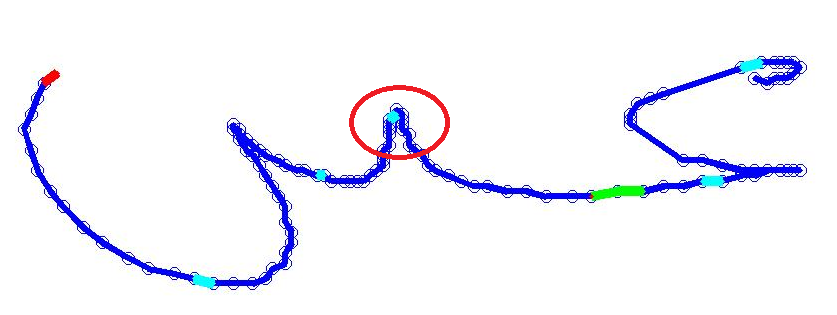
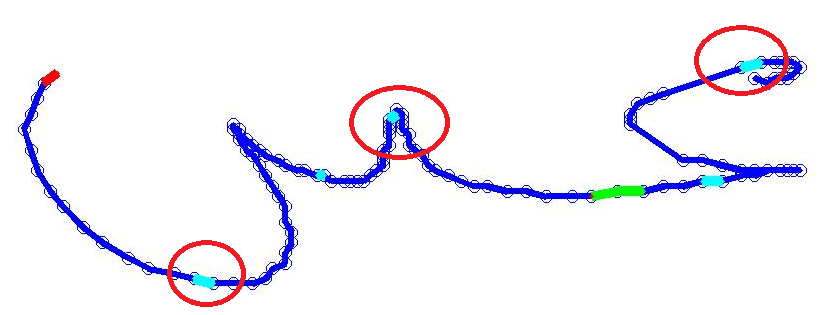
Segmentation paper Latex. Substroke scoring
git-svn-id: https://arabic-icr.googlecode.com/svn/trunk@214 23b4f04e-482a-c3a5-d353-cb0f12a588d0

diff --git a/Thesis/Segmentation Paper LaTeX/Online Segmentation Paper.tex b/Thesis/Segmentation Paper LaTeX/Online Segmentation Paper.tex
@@ -6,7 +6,7 @@
 %\usepackage{fixltx2e}
 %\usepackage{stfloats}
 %\usepackage{url}
-%\usepackage[cmex10]{amsmath}
+\usepackage[cmex10]{amsmath}
 %\usepackage{array}
 %\usepackage{mdwmath}
 %\usepackage{mdwtab}
@@ -40,7 +40,7 @@
 
 \IEEEcompsoctitleabstractindextext{
 \begin{abstract}
-character segmentation has an integral role in many Optical Character Recognition (OCR) systems due to the fact that correctly segmented characters are likely to be recognized correctly. However, Correct and efficient segmentation of Arabic text into characters is considered to be an essential problem. The cursive and unconstrained nature of the Arabic script in both printed and handwritten forms anneals the segmentation task. The Arabic script is composed of strokes which represent a single letter, multiple connected letters or diacritics. This paper proposes a novel on-line strokes-level recognition-based segmentation technique of Arabic script. The uniqueness and the main contribution of our approach is that the most time consuming procedures are performed while the stroke is being scribed. The system consists of three stages. The first stage, which requires the most calculation effort, is performed whilst the stroke is being written and involves three main parts: 1. Preprocessing of the written stroke. 2. Over-segmentation of the written stroke using on topological and directional local features. 3. Recognition-based scoring of adjacent combinations of sub-strokes that induced by the proposed segmentation points. The second stage contains filtering of the topologically invalid segmentation points. The last stage involves several segmentation points selections algorithm which determines the best subset of segmentation points. The system has been designed and tested using the ADAB Database. Promising results were obtained without using context help.
+character segmentation has an integral role in many Optical Character Recognition (OCR) systems due to the fact that correctly segmented characters are likely to be recognized correctly. However, Correct and efficient segmentation of Arabic text into characters is considered to be an essential problem. The cursive and unconstrained nature of the Arabic script in both printed and handwritten forms anneals the segmentation task. The Arabic script is composed of strokes which represent a single letter, multiple connected letters or diacritics. This paper proposes a novel on-line strokes-level recognition-based segmentation technique of Arabic script. The advantage of our approach is that the most time consuming procedures are performed while the stroke is being scribed. The system consists of three stages. The first stage, which requires the most calculation effort, is performed whilst the stroke is being written and involves three main parts: 1. Preprocessing of the written stroke. 2. Over-segmentation of the written stroke using on topological and directional local features. 3. Recognition-based scoring of adjacent combinations of sub-strokes that induced by the proposed segmentation points. The second stage contains filtering of the topologically invalid segmentation points. The last stage involves several segmentation points selections algorithm which determines the best subset of segmentation points. The system has been designed and tested using the ADAB Database. Promising results were obtained without using context help.
 \end{abstract}
 \begin{IEEEkeywords}
 Arabic Handwriting Recognition, Arabic Script Segmentation, Arabic Strokes Segmentation, On-line Text Recognition
@@ -52,34 +52,23 @@ Arabic Handwriting Recognition, Arabic Script Segmentation, Arabic Strokes Segme
 
 \section{Introduction}
 \date
-\IEEEPARstart{H}{andwriting} remains the most used mean of communication and recording of information in the daily life. Therefore, a growing interest in the on-line character recognition field has taken place in the recent years.
-Handwriting recognition can be categorized into two main fields: off-line and on-line. In the off-line script recognition, a digital image containing text is fed to the computers and the system attempt to converts the spatial representation of the letters into digital symbols \cite{al2011online}. Nevertheless, on-line handwriting recognition refers to the situation where the recognition is performed concurrently to the writing process. The main existing approaches for script recognition are the holistic approach \cite{biadsy2011segmentation} and the analytic approach \cite{abdulla2008off, sari2002off, Dinges2011, elanwar2012unconstrained}. The holistic approach considers the global properties of the written text while the analytic approach involves segmentation and classification of each part of the text.  In the holistic approach, the recognition system needs to be trained over all words in the dictionary, while it is possible for small vocabulary of words; this is not feasible for large vocabularies (20,000 words or more). Since each word is constructed from a subset of the character alphabet, it is much more efficient to classify words using the analytic approach. \cite{elanwar2012unconstrained} \\
+\IEEEPARstart{H}{andwriting} remains the most used mean of communication and recording of information in the daily life. Therefore, a growing interest in the on-line character recognition field has taken place in the recent years. Handwriting recognition can be categorized into two main fields: off-line and on-line. In the off-line script recognition, a digital image containing text is fed to the computers and the system attempts to convert the spatial representation of the letters into digital symbols \cite{al2011online}. On the contrary, on-line handwriting recognition refers to the situation where the recognition is performed concurrently to the writing process. Approaches for script recognition are usually classified into two types: 1.The holistic approach \cite{biadsy2011segmentation} and 2.the analytic approach \cite{abdulla2008off, sari2002off, Dinges2011, elanwar2012unconstrained}. The holistic approach considers the global properties of the written text while the analytic approach involves segmentation and classification of each part of the text.  In the holistic approach, the recognition system needs to be trained over all words in the dictionary, while it is possible for small vocabulary of words; this is not feasible for large vocabularies (20,000 words or more). Since each word is constructed from a subset of the character alphabet, it is much more efficient to classify words using the analytic approach \cite{elanwar2012unconstrained}.\\
 
-The main motivation behind researching the field of Arabic handwriting segmentation its widespread. Although no reliable resource could be found which specifically mention the exact number of people whom read and write the Arabic system, it is known that the the Arabic language is the forth most spoken language by natives after Mandarin, Spanish and English. The Arabic language contains many different dialects used for nearly all everyday speaking situations however the formal standardized language, found mostly in writing or in prepared speech, is common \emph{[add citation from Wikipedia]}.  Approximately 25 languages have adopted the Arabic writing system with some changes. Thus the ability to segment and recognize Arabic script would have a widespread benefits. Nevertheless, the Arabic script recognition is at early stage in relation to the script recognition of Latin, Chinese and Kanji which has been a focus of study in the last decade and achieved an impressive recognition rates. The reason for this is mainly the peculiarity nature of the Arabic script, lack of funds and other utilities such as text database, dictionaries, etc. \cite{zeki2011segmentation}
-The Arabic language is written right to left in a cursive manner in both handwritten and printed forms. Most Arabic letters has 4 main body shapes: Isolated, Medial, Initial and Final, while other letters have 2 main body shapes: Isolated and Final. An occurrence of two shapes letters inside a word will lead to a split of the body into two or more parts, called Word-Parts (WP). Within the WP, the letters are connected in both handwritten and printed. Different letters may share the same body and only differ by additional strokes and dots called diacritics as seen in figure \ref{fig:same_main_body_letters}. In many cases Arabic word parts, which are connected when printed, are written in multiple strokes in handwritten form.\\  
+The main motivation behind researching the field of Arabic handwriting segmentation its widespread. Although no reliable resource could be found which the exact number of people whom read and write the Arabic text, it is known that the the Arabic language is the forth most spoken language by natives after Mandarin, Spanish and English. The Arabic language contains many different dialects used for nearly all everyday speaking situations however the formal standardized language, found mostly in writing or in prepared speech, is common \emph{[add citation from Wikipedia]}.  Approximately 25 languages have adopted the Arabic writing system with some changes. Thus the ability to segment and recognize Arabic script would have a significant academic and economic impact. Nevertheless, the Arabic script recognition is at early stage in relation to the script recognition of Latin, Chinese and Kanji which has been a focus of study in the last decade and achieved an impressive recognition rates. Complexities such as cursiveness, context sensitive shapes and overlapping of the Arabic script causes the OCR of the Arabic languages much more complicated than other languages such as English and Chinese \cite{razzak2010locally}. 
+Character Recognition of the Arabic script is more complicated than other languages such as English and Chinese due to complexities such as cursiveness, context sensitive shapes and overlapping. 
 
-Segmentation of the word into entities is a crucial part of the text recognition process in the segmentation based approaches. The segmentation do not necessarily correspond to exactly one character however it could be broken into components called graphemes, which are a combination of two or three letters, or a part of a letter. Correct segmentation of a word into letter is likely to result in a correct recognition. The other way around is also valid when it comes to recognition-based segmentation techniques, i.e. a firm recognition system improves the segmentation precision. Several segmentation approaches have been proposed in the literature for Arabic OCR. Still, correct and efficient segmentation of Arabic text is still considered a challenging and a fundamental problem even for off-line printed text. A common approach that is followed by many researchers is over-segmentation of the text and validating each such candidate segmentation point by extracting feature vectors representing the segmented parts to some classifier or rules based engine \cite{daifallah2009recognition}.\\
+The reason for this is mainly the peculiarity nature of the Arabic script, lack of funds and other utilities such as text database, dictionaries, etc.\cite{zeki2011segmentation}.\\
 
-\emph{[discuss the features of a horizontal point, 1. horizontal, 2. right to left, on the baseline]}\\
+The Arabic language is written right to left in a cursive manner in both handwritten and printed forms. Most Arabic letters has four main body shapes: Isolated, Medial, Initial and Final, while other letters have two main body shapes: Isolated and Final. An occurrence of two shapes letters inside a word will lead to a split of the body into two or more parts, called Word-Parts (WPs). Within the WP, the letters are connected in both handwritten and printed. Different letters may share the same body and only differ by additional strokes and dots named diacritics. For example the letters \RL{.h}  (Ha),\RL{j} (Jim),\RL{x} (Kha), and also the letters \RL{r} (Ra),\RL{z} (Zayn) and more.
+In many cases Arabic WPs, which are connected when printed, are written in multiple strokes in handwritten form as can be seen in figure \ref{fig:kmbot}. \\
 
+\emph{[consider adding a table of the similar body letters.]}\\
+
+Correct segmentation of a word into letter is likely to result in a correct recognition. The other way around is also valid when it comes to recognition-based segmentation techniques, i.e. a firm recognition system improves the segmentation precision. Several segmentation approaches have been proposed in the literature for Arabic OCR. Yet, correct and efficient segmentation of Arabic text is an unmet need and considered to be a challenging and a fundamental problem even for off-line printed text. A common approach that is followed by many researchers is over-segmentation of the text and validating each such candidate segmentation point by extracting feature vectors representing the segmented parts to some classifier or rules based engine \cite{daifallah2009recognition}.\\
 
 \emph{[talk about over and under segmentation in the general case, not specifically to the Arabic]}\\
 
-\begin{figure}
-\centering
-        \subfloat[]{
-            \label{fig:letters_same_body_1}
-            \includegraphics[width=0.2\textwidth]{./figures/letters_same_body_1}
-        }
-        \subfloat[]{
-           \label{fig:letters_same_body_2}
-           \includegraphics[width=0.2\textwidth]{./figures/letters_same_body_2}
-        }        
-    \caption{Letters groups sharing the same main body.}
-   \label{fig:same_main_body_letters}
-\end{figure}
-
-Methods used by segmentation-based approaches can be mainly classified into two: Dissection and Recognition-Based Segmentation. Dissection techniques learn the characteristic of the segmentation point and attempts to find appropriate candidate points. For instance, local minima in the upper or lower contour is commonly used for segmenting English cursive script.\emph{[TODO:add citation]}. Other widely used feature that characterizes a segmentation point is the low slope of its local environment. Several segmentation techniques divides the word into graphemes rather than into letters and the relationship between graphemes and letters is applied in a later phase \emph{[TODO:add citation]}. The recognition-based techniques operation is quite different. The method include using a moving window with a predefined width which breaks the word into many overlapping pieces without regard to its content and the attempts to classify those sub-components to find interesting points of interest or trajectories. An iterative or parallel scanning of the words followed by a recognition method is used to search for "satisfactory" classification scoring for joint sub-components usually by generating a lattice of all or many possible combinations. The final decision is determined by the best path through the lattice. While avoiding using complex dissection techniques, such techniques relies heavily on the classifier accuracy \cite{casey1996survey}. A similar methodology is used in this study.\\
+Methods used by segmentation-based approaches can be mainly classified into two: Dissection and Recognition-Based Segmentation. Dissection techniques learn the characteristic of the segmentation point and attempt to find appropriate candidate points. For instance, local minima in the upper or lower contour is commonly used for segmenting English cursive script.\emph{[TODO:add citation]}. Other widely used feature that characterizes a segmentation point is the low slope of its local environment. The dissection of words into segments do not necessarily correspond to exactly one character per segment, however it could segment the words into components called graphemes, which are a combination of two or three letters, or a part of a letter. The relationship between graphemes and letters is applied in a later phase \emph{[TODO:add citation]}. The recognition-based techniques operate quite differently. The method includes using a moving window with a predefined width which breaks the word into many overlapping pieces without regard to its content and the attempts to classify those sub-components to find points of interest or trajectories. An iterative or parallel scanning of the words followed by a recognition method is used to search for "satisfactory" classification scoring for joint sub-components usually by generating a lattice of all or many possible combinations. The final decision is determined by the best path through the lattice. While avoiding using complex dissection methods, such techniques rely heavily on the classifier accuracy \cite{casey1996survey}. \\
 
 In this paper we propose a novel approach which performs segmentation and recognition in the strokes level. We combine both holistic and analytic techniques for recognizing open dictionary Arabic on-line script. In section \ref{sec:related_word} we mention related studies done in the field of on-line Arabic recognition. The proposed approach is described in details in section \ref{sec:approach}. Results are shown in the section \ref{sec:results}. We present the future work we plan in section \ref{sec:future_work}.
 
@@ -115,8 +104,11 @@ The motivation behind this method is based on the intuition that the most basic 
 The proposed technique describes a general concept of ongoing strokes segmentation. The decoupling between the different components and sub-components in the system enables different alternatives techniques to be integrated easily such as dissection techniques and graphemes or letters classification. A high level visual description of the system can be seen in figure \ref{fig:system_flow}.\\
 
 Below, a digest of the three main stages of our approach: \\
+
 \textbf{Stage 1.} This stage is activated on every reception of a new point by from the tablet. The whole trajectory received since the last "pen down" event is preprocessed to remove noises and imperfections. The horizontal handler that joint a pair of connected Arabic letters is mostly horizontal, directed right to left and located near the baseline, thus our goal is identify this Horizontal segments and pinpoint a segmentation point, preferably, as much as close the the middle of the handler. Thus, the preprocessed stroke is investigated in an attempt to determine whether the newly acquired point represents the beginning of a new horizontal fragment or end of an horizontal fragment (HF) by calculating the slope of the local point area. If a the last point ends a HF, the medial point of the HF is nominated as a Candidate Point (CP). For each new CP is a row and a column is added to the Subsequence Scoring Matrix which contains the classification scoring of sub-strokes spanning from candidate point that spans between any two candidate points. The scoring is calculated using a letter classification system. Once the corresponding "Pen up" event occur, the system moves for the next stage.\\ 
+
 \textbf{Stage 2.} The CP's are investigated and both invalid and redundant candidate points are filtered out. Then, a scoring correction process is invoked to adjust very high scoring for least probable candidate points using some heuristics. An example for invalid candidate point can be a point which do not reside on a HF or on a contour of a loop. Redundant candidate point happens when more than a single candidate point were nominated on the same HF  that represent joint trajectory between two connected letters.\\
+
 \textbf{Stage 3.} At this point the scoring matrix is ready and all the bad candidate points are eliminated. Next, a collection of algorithms is employed to select the final set of segmentation points.
 
 Detailed explanation on each stage is provided in the subsections below.
@@ -140,7 +132,7 @@ Our preprocessing phase include three steps in the following order: normalizatio
 
 \textbf{Normalization.} Size normalization is done to achieve a uniform size of the bounding box surrounding the pattern. This is done to enable the classifier to recognize the sequence pattern even when the stroke is written in different sizes. Shape similarity algorithms tend to be sensitive for nonuniform shapes size, thus this procedure is important and can be found in many approaches in the literature. The bounding box of the sequence after this procedure is $[0,1]\times[0,1]$. We include in this step also translation of the sequence's center of gravity to the origin point $[0,0]$.\\
 
-\textbf{Simplification.} The input obtained by the digitizer may contain a large amount of noise. The noise is mainly duplication of points. In this process redundant points are filtered out and a similar sequence with fewer points is obtained. Douglas-Peucker algorithm is used and the maximum distance parameter used by the algorithm is set to be \emph{[]}. The resulted curve is a skeletonized angular sequence. \\
+\textbf{Simplification.} The input obtained by the digitizer may contain a large amount of noise. The noise is mainly duplication of points. In this process redundant points are filtered out and a similar sequence with fewer points is obtained. Douglas-Peucker algorithm is used and the maximum distance parameter used by the algorithm is set to be \emph{[]}. The resulted curve is a skeletonized angular sequence. \emph{[talk about the epsilon value]}\\
 
 \textbf{Re-sampling.} As a result of the simplification process the points are distributed uniformly along the stroke trajectory. Naturally, there are less point in relatively straight areas and a higher amount of points in the curved areas of the stroke. The process of re-sampling produces equidistant smoothed data sequence. The Re-sampling is performed using splines interpolation, the target number of points for a sample pattern which is classified to a letter is set to 40. This number found empirically.
 
@@ -149,15 +141,15 @@ Our preprocessing phase include three steps in the following order: normalizatio
 \begin{figure}
 	\centering
         \subfloat[]{
-            \label{fig:letters_same_body_1}
+            \label{fig:letter_before_preprocessing}
             \includegraphics[width=0.2\textwidth]{./figures/letter_before_preprocessing}
         }
         \subfloat[]{
-           \label{fig:letters_same_body_2}
+           \label{fig:letter_after_preprocessing}
            \includegraphics[width=0.2\textwidth]{./figures/letter_after_preprocessing}
         }        
     \caption{The letter \RL{d} before (a) and after (b) preprocessing}
-   \label{fig:same_main_body_letters}
+   \label{fig:D_before_after_preprocessing}
 \end{figure}
 
 \subsubsection{Horizontal Fragment identification}
@@ -167,12 +159,11 @@ The goal of this process is to identify HF's in the written text. Once an HF is 
 \item low slope
 \item directed right to left 
 \end{enumerate}
-The method described below tries to identify the largest possible HF and disregard small horizontal regions that are usually caused by the imperfection of the digitizer. 
-The horizontal fragment is performed by spotting the start and the end point of the horizontal fragment. For every newly obtained point, the slope is calculated.\\
+The method described below tries to identify the largest possible HF and disregard small horizontal regions that are usually caused by the imperfection of the digitizer. The horizontal fragment is performed by spotting the start and the end point of the horizontal fragment. For every newly obtained point, the slope is calculated.\\
 
 The process is ongoing thus to get the largest possible HF, we mark both the beginning and the end of the horizontal segment, these two points were given the names "start horizontal Fragment" (SHF) and "end horizontal Fragment" (EHF). 
 A point $p_{i}$ is named a "horizontal point" if the slope of the line $\overline{p_{i-1}p_{i}}$ if $\frac{\Delta x}{\Delta y}\leq0.6$ i.e the angle between the HP and the positive x-axis $\phi \leq \frac{\pi}{6}$ . This parameter was tunes empirically. The same exact value for this parameter was found independently in \cite{daifallah2009recognition} which strengthen our confidence in the finding.\\
-To reliably calculate the slope value, despite the noisy data obtained by the tablet, some preprocessing steps need to be performed. However a whole process of normalization, simplification and re-sampling mentioned in the previous may be costly, and since the this preprocessing need to be performed on almost every newly obtained point, it would be impractical and can't be performed on-line while the stroke is being written.\\
+To reliably calculate the slope value, despite the noisy data obtained by the tablet, some preprocessing steps need to be performed. However a whole process of normalization, simplification and re-sampling mentioned in the previous may be costly. Since this preprocessing need to be performed on almost every newly obtained point, it would be impractical and can't be performed on-line while the stroke is being written.\\
 
 The preprocessing include only down-sampling of the trajectory, to the half of the sample points of the original trajectory.
 Once a low slope point is recognized, the algorithm sets this point as a HF starting point. Every next low slope point is marked as "Last Seem Horizontal point" Until a high slope point is obtained. The point lastly marked as "Last Seen Horizontal point" is set to be an "Ending Horizontal point".\\
@@ -180,7 +171,7 @@ Once a low slope point is recognized, the algorithm sets this point as a HF star
 Ideally the whole process should be initiated on every new point received by the digitizer, however, it is unnecessary since no much information is obtained by each new point. Alternatively, the process is invoked on every k point, when k is set to 5 in our system. A horizontal fragment must contain two points at least.\\
 
 The nominated segmentation points in this stage is supposed to be an over-segmentation of the stroke. In table \emph{[]} in section \emph{[]} we show that almost all true segmentation points were included in the over-segmentation imposed in this stage. 
-It is important the note that this process is imperfect and may result is finding fragments that would not be classified as horizontal segment by a human perform the same task. However, it is important not to apply many too many restrictions such imposing too large minimal length on the HF, since while extra HS can be easily filtered out in a later phase when the entire stroke is available, failing to find a horizontal joint can't be recoverable.\\
+It is important the note that this process is imperfect and may result in finding fragments that would not be classified as horizontal segment by a human perform the same task. However, it is important not to apply too many restrictions such imposing too large minimal length on the HF, since while extra CP can be easily filtered out in a later phase when the entire stroke is available, failing to find a CP can't be recovered.\\
 
 \emph{[mention the merge candidate point.]}
 
@@ -195,7 +186,6 @@ It is important the note that this process is imperfect and may result is findin
 \end{figure}
 
 \subsubsection{Sub-strokes scoring}
-The candidate point $CP_{i}$ represents the index of the candidate point $i$ in the stroke $S$. For the simplicity of the presentation we define $CP_{i}=1$, i.e. the first point in the stroke $S$, although the first point is not defined as a segmentation point. We also we define the last point in the stroke $S$ as a candidate point, although it is not a candidate point but an obvious segmentation point. Both the "first candidate point" and the "last candidate point" will not be taken into account in the results sections.   
 
 \begin{figure}
 \centering
@@ -204,62 +194,84 @@ The candidate point $CP_{i}$ represents the index of the candidate point $i$ in 
 \label{fig:candidate_points}
 \end{figure}
 
-A sub-stroke $S_{i}^{j}$ is a sub-sequence of the stroke $CP_{i}$ that starts at candidate point $CP_{j}$ and ends at candidate point , i.e.
+Let $CPA$ refer to the array containing the indexes of the candidate segmentation point in the stroke $S$. i.e. $CPA_{i}$ contains the index of the $i^{th}$ CP. Since the first point of the stroke $S$ (i.e. $p_{1}$) is always the beginning of a letter and the last point in the stroke $S$ (i.e. $p_{n}$) is always and last point of a letter, the \emph{Generalized Candidate points array} ($GCPA$) will be a zero based array and will contain two more cells than the $CPA$. Assuming $L$ candidate points were found, below how $GCPA$ is defined: 
 \begin{equation}
-S_{i}^{j}=(p_{k})_{k=CP_{i}}^{CP_{j}}; i<j
+GCPA_{i} =\begin{cases} 1, & \mbox{if } i=0 \\
+							CPA_{i}, & \mbox{if } 1\leq i \leq L \\
+							n, & \mbox{if } i=L+1 
+			\end{cases}				
 \end{equation}
-
-The sub-stroke  $S_{i}^{j}$ may represent a letter or a portion of a letter. In some cases it also may represent a multiple connected letters. The scores matrix $D\in\mathbb{R}^{nXn}$ contains the resemblance scoring for all sub-strokes. 
+A sub-stroke $S_{i}^{j}$ is a sub-sequence of the stroke $S$ that starts at $GCPA_{i}$ and ends at $GCPA_{j}$ , i.e.
+\begin{equation}
+S_{i}^{j}=(p_{k})_{k=GCPA_{i}}^{GCPA_{j}}; i<j
+\end{equation}
+The Sub-sequence Scoring Matrix $D\in\mathbb{R}^{n\times n}$ contains the resemblance scoring obtained by the classifier to the corresponding sub-strokes in$S$, i.e:
 \begin{equation}
 D(i,j)=Score(S_{i}^{j})
 \end{equation}
-Score($S_{i}^{j}$) is the classification scoring given by the letter classifier to the sub-stroke $S_{i}^{j}$. It is s clear that $D$ is an upper triangular matrix. For the sake of good performance as well as segmentation correctness we add a locality constraint to improve performance and to avoid marginal segmentation. That is, we only calculate a narrow band of the $D$ matrix above the diagonal. The band width is no larger than $L$.
+It is clear that $D$ is an upper triangular matrix. In-order to maintain good performance as well as high segmentation accuracy, we added a locality constraint to avoid marginal segmentation. That is, we only calculate a narrow band of the $D$ matrix above the main diagonal. Assume the band width is equal to $B$.
 \begin{equation}
-D(i,j)=\inf \Leftrightarrow j \leq i \vee j-i>L 
+D(i,j)=\inf \Leftrightarrow j \leq i \vee j-i>B 
 \end{equation}
+Our hypothesis is that sub-strokes that represent a letter will achieve better resemblance scoring, i.e. $D(i,j)$ value will be smaller relative to other sub-stroke. The matrix $D$ is calculated while the stroke is being scribed. Once a new CP is identified, let it be the $j^{th}$ element in the $GCPA_{j}$ a new row and column are added to the matrix $D$. However since the matrix is upper triangular matrix and also the relevant cells are constrained by $B$ width band, the maximal number of cells that will be actually calculated is $B$, all located in the new column. Formally, only the cells $D(k,j)$ which maintain $j-B\leq k \leq j-1$ will be calculated.\\
 
-The matrix $D$ is calculated while the stroke is being scribed. Once a new candidate point is identified, a new row and column is added to the matrix with the corresponding Score($S_{i}^{j}$) for each added cell in the band of the lower triangular matrix. It can be easily noted that the number of cells calculates in the limited band is $O(LN)$ where $N$ is the number of candidate points in the stroke. 
-A letters classifier that is described in depth in [my paper] is used to score the sub-strokes. For the sake of completeness, here we will outline the main idea of the classification system. The classifier uses Earth movers Distance embedding technique descried in \cite{shirdhonkar2008approximate} to project samples of the Arabic letters to a low dimensional space. Since the embedding is into the L1 space, given a sequence, the k-NN are found using k-dtree. The exact resemblance score is determined by a minimum score that is given by a predefined linear combination of the $L_{1}$ distance in the embedding space and Sokoe-Chuba DTW.
+A letters classifier that is described in depth in \emph{[my paper]} is used to score the sub-strokes. For the sake of completeness, here we will outline the main idea of the classification system. The classifier uses Shape Context to extract the pattern feature, then Earth movers Distance embedding technique descried in \cite{shirdhonkar2008approximate} to project samples of the Arabic letters to a high dimensional $L_{1}$ space. A combination of Principle Component Analysis (PCA) and Linear Discrimination Analysis (LDA) is used to reduce the samples dimensionality and k-NN are found using k-dtree. The exact resemblance score is determined by a minimum score that is given by a predefined linear combination of the $L_{1}$ distance in the embedding space and Sokoe-Chuba DTW.\\
 
-The classifier receives a sequence and a position, and it contains 4 databases; each database contains letter samples in a certain position (Ini, Mid, Fin or Iso) regardless of the letter label. As mentioned before a stroke can contain a single or several letters. Here we enumerate all the letters positions options that a stroke can contain.  
-
+The classifier contains four databases, one for each letter position. It receive a sequence and a position (Ini, Mid, Fin and Iso).
+As mentioned earlier a stroke spans from the "mouse-down" to the "mouse-up" event. A stroke that contains a complete WP may contain only the following letters position sequence: \{Iso\} or \{$Ini,Mid^{*},Fin$\}.
+However since a stroke could contain a partial WP, the letters of the stroke may have one of the following options, where the  $^{+}$ notation represents more than one occurrence and $^{*}$ notation represents zero or more occurrences.:
 \begin{multicols}{2}
 \begin{itemize}
-    \item $Ini$
-    \item $Mid^{+}$
     \item $Fin$
+    \item $Iso$
+    \item $Mid^{+}$
     \item $Ini,Mid^{*},Fin$
-    \item $Ini,Mid^{+}$
+    \item $Ini,Mid^{*}$
     \item $Mid^{+},Fin$
 \end{itemize}
 \end{multicols}
-Where $^+$ represent more than one occurrence and $^*$ represents zero or more occurrences. The $D_p$ matrix below demonstrates the databases in which the classifier will look into when trying to find the closest candidates. In Equation \ref{dp_matrix}, the Greek letter represents the set of position databases that the sub-stroke may belong to:
+ 
+In order to maximize performance and accuracy, the system should attempt to look for the letter label in the smallest number of databases. 
+To make the following explanation clearer let us define the following: 
+Let $S$ be a sequence which contains $L$ candidate points:\\
+\textbf{Initial Subsequence.} A sub-sequence $S_1^k$ where $ 1< k \leq L+1$ will be given the name \emph{Initial Subsequence} (IS).\\
+\textbf{Medial Subsequence.} A sub-sequence $S_m^k$ where $m \geq 2 \wedge m< k \leq L$ will be name \emph{Medial Subsequence} (MS).\\
+\textbf{Final Subsequence.} A sub-sequence $S_k^{L+1}$ where $k \leq 1$ will be referred to as \emph{Final Subsequence} (FS).\\
+
+The $D_p$ matrix below demonstrates the databases in which the system will require the classifier to look into. It is important to note that the $D$ matrix is filled while the stroke is being written, thus the system has no knowledge on how many candidate points the stroke will end up having or when the writer will end the stroke. However the absence of this knowledge does not affect our local decision because the decision only relies on the fact that as long as the writer did not raise the pen every candidate point found does not represent a final letter. Given the definition above below we present 4 types of sub-sequences that were given the names $\alpha$, $\beta$, $\chi$ and $\delta$ which relates the between the cell location in the $D$ matrix and the database that the classifier will look for the best matches.
+\begin{itemize}
+	\item \textbf{$\alpha$ subsequence:} IS which is not an FS may contain an initial or medial letter only.
+	\item \textbf{$\beta$ subsequence:} MS can contain only a medial letter.
+	\item \textbf{$\chi$ subsequence:} FS which is not an an IS can contain only a medial or final letter.
+	\item \textbf{$\delta$ subsequence:} IS which is also and IS can represent letter in any position.
+\end{itemize}
 
 \begin{equation}
 D_{p}=
-\left( \begin{array}{cccccc}
-\infty & \alpha & \alpha & \alpha & \cdots & \delta \\
-\infty & \infty & \beta & \beta & \cdots & \chi \\
-\infty & \infty & \alpha & \beta & \cdots & \chi \\
-\infty & \infty & \infty & \infty & \cdots & \chi \\
-\vdots & \vdots & \vdots & \vdots & \ddots & \vdots \\
-\infty & \infty & \infty & \infty & \cdots & \infty \end{array} \right)
+\left( \begin{array}{ccccccc}
+\infty 	& \alpha & \alpha & \alpha  & \cdots & \alpha & \delta \\
+\infty  & \infty  & \beta   & \beta   & \cdots  & \beta  & \chi    \\
+\infty  & \infty  & \infty   & \beta   & \cdots  & \beta  & \chi    \\
+\vdots & \vdots & \vdots  & \vdots & \ddots  & \vdots & \vdots \\
+\infty  & \infty  & \infty   & \infty   & \cdots  & \beta  & \chi    \\
+\infty  & \infty  & \infty   & \infty   & \cdots  & \infty  & \chi    \\
+\infty  & \infty  & \infty   & \infty   & \cdots  & \infty  & \infty \end{array} \right)
 \label{dp_matrix}
 \end{equation}
+%
+%\setlength\multicolsep{1pt}
+%\begin{multicols}{2}
+%\begin{itemize}
+%    \item[] $\alpha=\{Ini \vee Mid\}$
+%    \item[] $\beta=\{Mid\}$
+%    \item[] $\chi=\{Mid \vee Fin\}$
+%    \item[] $\delta=\{Iso \vee Ini \vee Mid \vee Fin\}$
+%\end{itemize}
+%\end{multicols}
 
-\setlength\multicolsep{1pt}
-\begin{multicols}{2}
-\begin{itemize}
-    \item[] $\alpha=\{Ini \vee Mid\}$
-    \item[] $\beta=\{Mid\}$
-    \item[] $\chi=\{Mid \vee Fin\}$
-    \item[] $\delta=\{Iso \vee Ini \vee Mid \vee Fin\}$
-\end{itemize}
-\end{multicols}
+For each subsequence, the recognition system returns a set of K potential letters candidates, with their resemblance scoring (in our implementation $K=3$). In the current implementation we consider only the candidate with the best (minimal) scoring, however, any function taking into consideration the scoring returned by the classifier for all the candidate can be used to determine the final scoring of the cell.
+Figure \ref{substrokes_demo} visually demonstrates the Subsequences that is scored for each cell in matrix $D$.
 
-As mentioned before, for each subsequence, the recognition system returns a set of 3 potential letters candidates, with their resemblance scoring. In the current implementation we consider only the candidate with the best (minimal) scoring . In a future work we can evaluate other scoring technique that will be based on other scoring technique that will take into consideration all the relevant candidates.
-In figure 5 and table [] we demonstrate the idea of the segmentation points nomination and the Subsequences matrix.
-Table [] visually demonstrates the subsequences of the word shown in the figure above. Note that we have eliminated the first column and the last row of the matrix since it contains no subsequences.
 
 \begin{figure}
 \renewcommand{\arraystretch}{2}
@@ -305,12 +317,12 @@ $CP_{6}$
 \end{figure}
 
 \subsection{Second  Stage: Candidate points sieving and scoring correction}
-In this stage we eliminate redundant segmentation points. The elimination is based on the following rules:
+In this stage we eliminate redundant segmentation points found in the over-segmentation process found in the previous stage. The elimination is based on the following rules:
 
 \begin{itemize}
-\item [Rule 1]: Inner Segmentation point lies close to the baseline. 
-\item [Rule 2]: Segmentation points do not reside in loops.
-\item [Rule 3]: A sub-stroke length/area is proportional to the stroke/length of the containing stroke.
+	\item [Rule 1]: Inner Segmentation point lies close to the baseline. 
+	\item [Rule 2]: Segmentation points do not reside in loops.
+	\item [Rule 3]: A sub-stroke length/area is proportional to the stroke/length of the containing stroke.
 \end{itemize}
 
 The first is based on the fact that segmentation point lies on the baseline (see []), thus points that are mainly far from the baseline are eliminated. The baseline is proved to be an important piece of information in both segmentation and recognition domains of both on-line and off-line handwriting recognition. In words recognition, it plays a role in determining if an additional stroke to differentiate between diacritic dots according to their position from the baseline (above or under).
@@ -323,16 +335,24 @@ In some cases candidate segmentation points are incorrectly nominated on areas t
 \begin{figure}
 \centering
 \includegraphics[width=6cm]{./figures/candidate_in_no_horizontal}
-\caption{Incorrect nomination of a candidate point that lays on a Segmentation fragment.}
+\caption{The main body of Arabic word \RL{`yn}. CPs are colored in cyan, Segmentation points are colored in red, a the green areas ensigns that CPs merge has taken place. Three types of false candidate points can be seen: 1. CP on the HF of the letter \RL{-`}. 2. A candidate point that do not reside on a HF. 3. A CP on the valley of the letter \RL{-n}. }
 \label{fig:candidate_in_no_horizontal}
 \end{figure}
 
 In several cases we encountered candidate points that reside on the same horizontal fragment. [why does it happen?]. We filter out this redundant candidate points in the nomination process and do not wait till this filtering phase. The reason is that since we calculate a narrow band of the Scoring matrix, leaving the impermissible candidate points will result in low performance since highly over segment the word will cause also the system to miss letters because we calculate only a portion a narrow band of the scoring matrix. If such case is identified by the nomination algorithm the medial point between the adjacent candidate points is taken.
 
+\subsubsection{Baseline detection}
+Once the entire stroke is available, a baseline detection algorithm is activated only if more than four CP's were detected. The reason for this threshold is to prevent the baseline detection procedure to be activated on small strokes where the baseline can't be reliably determined. To find the handwritten stroke's baseline, the vertical density histogram of the re-sampled stroke is used. The $\Delta y$ of the stroke is calculated and partitioned to 10 intervals, then the center of the of the most common interval is calculated $I_{max}$. A candidate point $CP$ is filtered out if the following holds:
+\begin{equation}
+|Y(CP)-I_max|>2*max(|I|,0.15) 
+\end{equation}
+Where $Y(\cdot)$ is the y coordinate of the CP and $|I|$ is the length of the interval. 
+Filtering out CPs that are relatively far from the baseline has proven to be very effective in eliminating false CP's that reside on valleys of several letters, such as \RL{q}, \RL{s} and \RL{n}, in the their final and isolated positions. These CPs are usually challenging because they tend to be included in the final set of candidate points if not filtered out. An example can be seen in figure \ref{fig:candidate_in_no_horizontal}, note the candidate point (cyan) inside the last letter \RL{-n}. 
+
 \subsection{Third  Stage: Segmentation Selection}
 The goal of this phase is to select the best segmentation points set among the candidate segmentation points. It is done by finding the best segmentation path in $D$ which represent the final segmentation. 
  
-A path with the length in the scoring matrix $D^{mXn}$ is defined as follows:  
+A path with the length in the scoring matrix $D^{m\times n}$ is defined as follows:  
 \begin{enumerate}
 \item First link: $p_{1}=(1,j)$
 \item $p_{k}=(i,j)\Rightarrow p_{k+1}=(j,r);s.t.:r>j \forall 1<k<l $
